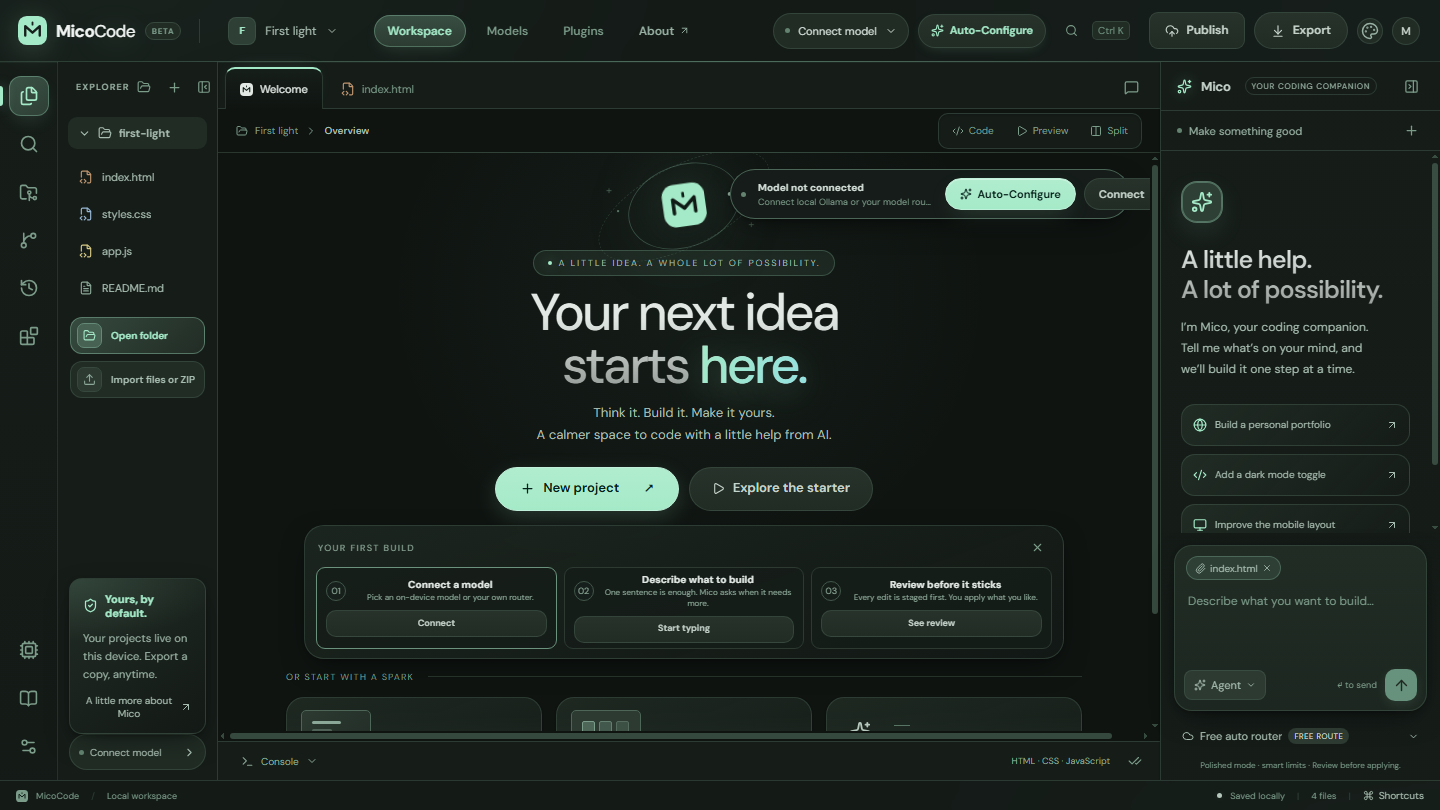
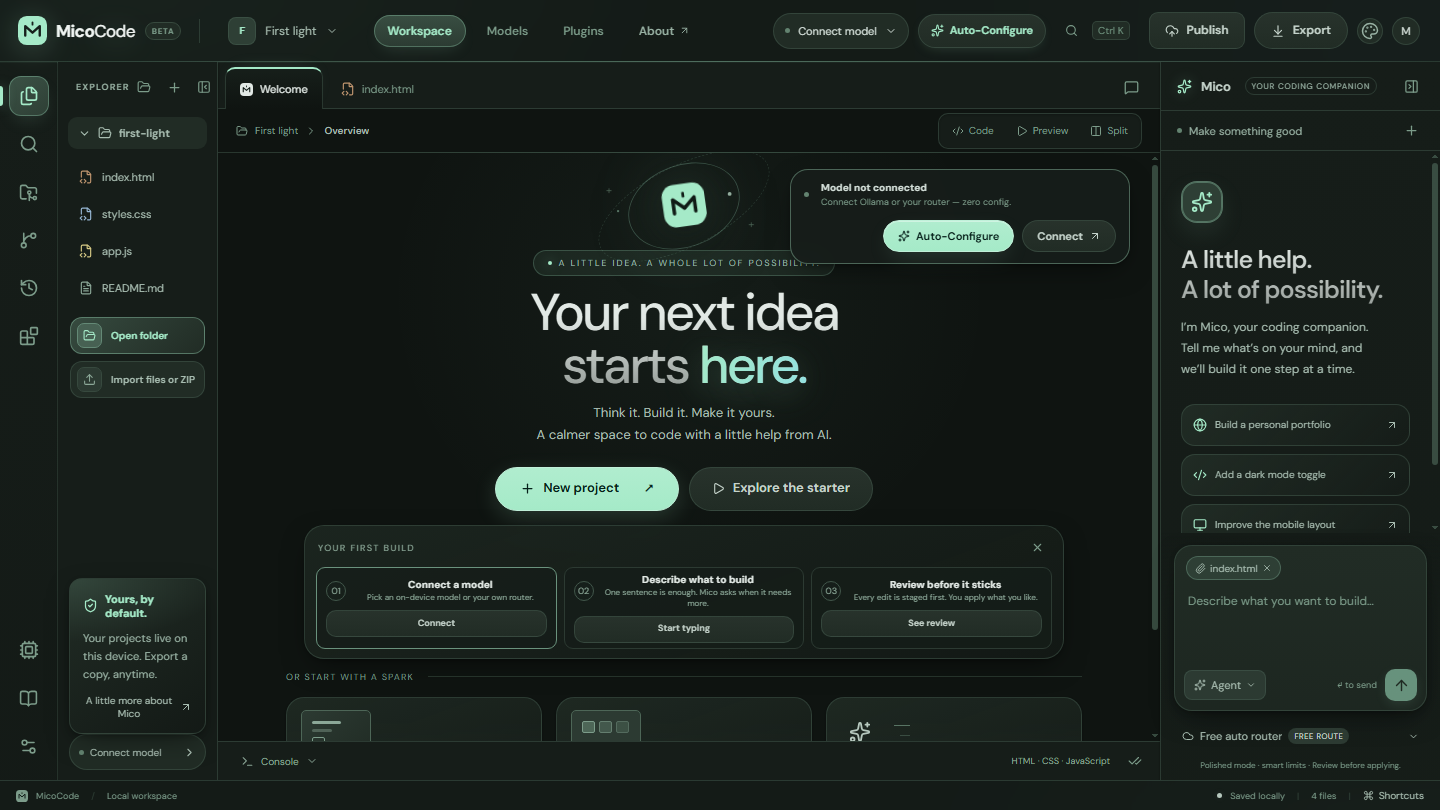
Rebuild the connect pill so its text and buttons both fit

Changed region(s): [[0.5, 0.216, 0.8125, 0.3395], [0.1562, 0.8951, 0.7812, 0.9259]]

diff --git a/components/micocode/workspace.tsx b/components/micocode/workspace.tsx
@@ -301,7 +301,7 @@ export default function Workspace(){
      <div className="workspace-toolbar"><div className="breadcrumb"><FolderOpen size={12}/><span>{p.name}</span><ChevronRight size={12}/><span>{view==='welcome'?'Overview':view==='changes'?'Review changes':p.active||'Workspace'}</span></div><div className="view-toggle">{([{id:'code',label:'Code',Icon:Code2},{id:'preview',label:'Preview',Icon:Play},{id:'split',label:'Split',Icon:Columns2}] as const).map(v=><button key={v.id} className={view===v.id?'active':''} onClick={()=>setView(v.id)} title={v.label}><v.Icon size={12}/><span>{v.label}</span></button>)}</div></div>
      {p.sourceFolder&&<div className={'folder-link-banner '+(folderOpenRoot===p.sourceFolder?'connected':'')}><FolderOpen size={15}/><span><strong>{p.name}</strong><small>{folderOpenRoot===p.sourceFolder?'Live folder · Apply writes reviewed changes to this folder.':'Folder saved · Reopen it to reconnect before applying changes.'}</small></span><button className="secondary" disabled={busy||applyingFolder} onClick={()=>void openFolder()}>{folderOpenRoot===p.sourceFolder?'Switch folder':'Reconnect'}</button></div>}
      <div className="workspace-content">
-      {view==='welcome'&&<div className={'welcome-first-use '+(ready?'connected':'')}><span className={'status-dot '+(ready?'ready':'')}/><div><strong>{ready?providerLabel:'Model not connected'}</strong><small>{ready?'Zero-config active. Ready to build with your configured model.':'Connect local Ollama or your model router with zero config.'}</small></div><div className="welcome-first-use-actions">{!ready&&<button className="primary" disabled={autoScanning} onClick={()=>void autoConfigure(false)}><Sparkles size={12} className={autoScanning?'spin':''}/> {autoScanning?'Scanning…':'Auto-Configure'}</button>}<button className="secondary" onClick={()=>setDialog('connections')}>{ready?'Switch':'Connect'} <ArrowUpRight size={12}/></button></div></div>}
+      {view==='welcome'&&<div className={'welcome-first-use '+(ready?'connected':'')}><span className={'status-dot '+(ready?'ready':'')}/><div><strong>{ready?providerLabel:'Model not connected'}</strong><small>{ready?'Zero-config active. Ready to build with your configured model.':'Connect Ollama or your router — zero config.'}</small></div><div className="welcome-first-use-actions">{!ready&&<button className="primary" disabled={autoScanning} onClick={()=>void autoConfigure(false)}><Sparkles size={12} className={autoScanning?'spin':''}/> {autoScanning?'Scanning…':'Auto-Configure'}</button>}<button className="secondary" onClick={()=>setDialog('connections')}>{ready?'Switch':'Connect'} <ArrowUpRight size={12}/></button></div></div>}
      {view==='welcome'?<div className="welcome"><div className="welcome-art"><div className="orbit orbit-one"/><div className="orbit orbit-two"/><div className="orbit-dot dot-one"/><div className="orbit-dot dot-two"/><div className="hero-mark"><Logo size={53}/></div><span className="art-plus plus-one">+</span><span className="art-plus plus-two">+</span></div><div className="welcome-eyebrow"><span/> A LITTLE IDEA. A WHOLE LOT OF POSSIBILITY.</div><h1>Your next idea<br/>starts <em>here.</em></h1><p className="welcome-description">Think it. Build it. Make it yours.<br/>A calmer space to code with a little help from AI.</p><div className="welcome-actions"><button className="primary" onClick={()=>{setProjectName('');setTemplate('blank');setDialog('new')}} disabled={busy}><Plus size={15}/> New project <span>↗</span></button><button className="secondary" onClick={()=>setView('preview')}><Play size={13}/> Explore the starter</button></div>{config.showTips&&p.messages.length===0&&<OnboardingChecklist ready={ready} providerLabel={providerLabel??config.model} onConnect={()=>setDialog('connections')} onStartTyping={()=>{setAgentPanel(true);promptRef.current?.focus()}} onSeeReview={()=>setView('changes')} onHide={()=>setConfiguration({...config,showTips:false})}/>}<div className="start-label"><span>OR START WITH A SPARK</span><div/></div><div className="template-grid"><button disabled={busy} onClick={()=>{setTemplate('landing');setProjectName('');setDialog('new')}}><div className="template-mini mini-website"><i/><i/><b/></div><span>Personal website <ArrowUpRight size={13}/></span><small>A home for your ideas</small></button><button disabled={busy} onClick={()=>{setTemplate('dashboard');setProjectName('');setDialog('new')}}><div className="template-mini mini-app"><i/><i/><i/><b/></div><span>A little web app <ArrowUpRight size={13}/></span><small>Something useful, made by you</small></button><button onClick={()=>{setMode('plan');setPrompt('Help me plan a small web project. Ask about my idea and suggest a practical starting point.');setAgentPanel(true);promptRef.current?.focus()}}><div className="template-mini mini-idea"><Sparkles size={22}/><i/><i/></div><span>Think it through <ArrowUpRight size={13}/></span><small>Make a plan with Mico</small></button></div><div className="welcome-foot"><ShieldCheck size={13}/><span>Local-first workspace</span><i>·</i><span>Free on-device AI</span><i>·</i><span>Your code is yours</span></div></div>
      :view==='changes'?<div className="changes-view"><div className="changes-heading"><div><h2>A second look, before the next step.</h2><p>{changePaths.length?`${changePaths.length} file${changePaths.length>1?'s':''} with proposed changes. Review, then make them yours.`:'No pending changes. Your next agent edits will appear here.'}</p></div>{changePaths.length>0&&<div><button className="secondary" disabled={busy||applyingFolder} onClick={()=>{updateProject({changes:{}});notify('Proposed changes discarded')}}>Discard</button><button className="primary" disabled={busy||applyingFolder} onClick={()=>void applyChanges()}><CheckCheck size={14}/>{applyingFolder?'Writing to folder…':p.sourceFolder?'Apply to folder':'Apply all'}</button></div>}</div>{p.sourceFolder&&changePaths.length>0&&<div className="folder-apply-note"><FolderOpen size={14}/><span>Reviewed changes will be written to <strong>{p.name}</strong> when you apply them.</span></div>}{changePaths.length?changePaths.map(path=><div className="diff-file" key={path}><div className="diff-heading"><FileIcon path={path}/><strong>{path}</strong><span>{p.changes[path]===null?'Deleted':p.files[path]===undefined?'New file':'Modified'}</span></div><pre>{diffLines(p.files[path],p.changes[path]).map((line:{kind:string;text:string},i:number)=><div key={i} className={line.kind}><span>{line.kind==='add'?'+':line.kind==='remove'?'−':' '}</span>{line.text||' '}</div>)}</pre></div>):<div className="empty-state"><GitBranch size={34}/><h3>A clear workspace.</h3><p>Agent edits are staged here before they touch your files.</p><button className="secondary" onClick={()=>{setAgentPanel(true);promptRef.current?.focus()}}>Ask Mico for a change <ArrowRight size={13}/></button></div>}</div>
       : <div className={'editing-area '+(view==='split'?'split':'')}>

diff --git a/app/visual.css b/app/visual.css
@@ -125,7 +125,7 @@ body{background:var(--surface-canvas);color:var(--ink-primary);letter-spacing:.0
 .template-grid>button:hover>span svg{transform:translate(2px,-2px);color:var(--mint)}
 .template-grid>button>small{margin-top:5px;font-size:10px;color:var(--ink-tertiary);line-height:1.5}
 .welcome-foot{margin-top:14px;color:var(--ink-tertiary);font-size:9px}
-.welcome-first-use{top:16px;right:20px;border-radius:999px;padding:8px 10px;max-width:min(400px,calc(100% - 40px))}
+.welcome-first-use{top:16px;right:20px;border-radius:18px;padding:11px 13px;max-width:min(340px,calc(100% - 40px));flex-wrap:wrap;row-gap:9px}
 .welcome-first-use .secondary{border-radius:999px}
 
 /* The onboarding is a compact stepper on desktop, not another long card stack. */
@@ -446,8 +446,10 @@ input:focus,textarea:focus,select:focus{border-color:color-mix(in srgb,var(--min
 .welcome-first-use-actions{
   display:flex;
   align-items:center;
+  justify-content:flex-end;
   gap:8px;
-  margin-left:auto;
+  flex:1 1 100%;
+  margin-left:0;
 }
 .welcome-first-use-actions .primary,
 .welcome-first-use-actions .secondary{

diff --git a/app/product.css b/app/product.css
@@ -25,7 +25,7 @@
 .welcome h1{max-width:720px;font-size:clamp(40px,4.7vw,62px);line-height:1.04;letter-spacing:-3px;margin:14px 0 14px}
 .welcome-description{max-width:510px;font-size:13px;line-height:1.8;color:var(--tone-70)}
 .welcome-first-use{position:absolute;right:18px;top:16px;z-index:5;display:flex;align-items:center;gap:10px;max-width:min(440px,calc(100% - 36px));padding:9px 11px;border:1px solid var(--tone-30);border-radius:9px;background:color-mix(in srgb,var(--tone-10) 94%,transparent);box-shadow:var(--shadow-md);backdrop-filter:blur(12px);text-align:left}
-.welcome-first-use>div{min-width:0;flex:1}
+.welcome-first-use>div{min-width:0;flex:1 1 auto}
 .welcome-first-use strong,.welcome-first-use small{display:block;overflow:hidden;text-overflow:ellipsis;white-space:nowrap}
 .welcome-first-use strong{font-size:10px;color:var(--tone-85)}
 .welcome-first-use small{font-size:9px;color:var(--tone-55);margin-top:2px}
